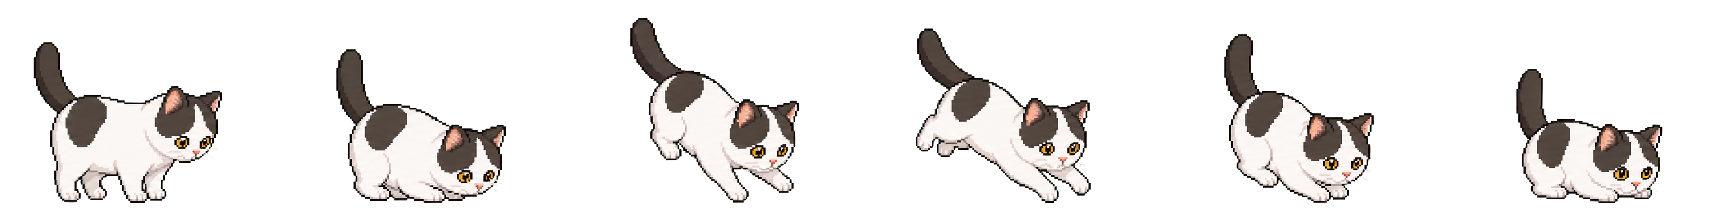
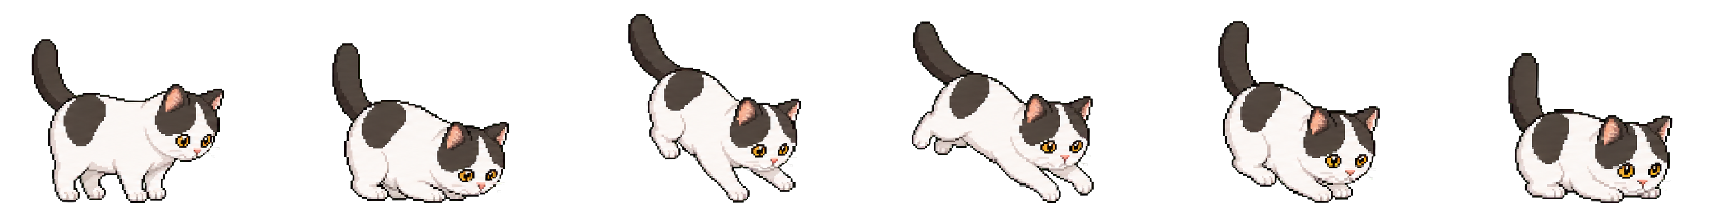
fix: align Xiaomi jump scale and motion

diff --git a/src/app/motion.ts b/src/app/motion.ts
@@ -1,4 +1,4 @@
-import { ACTIONS, LEAP_CROUCH_S, W } from '../render/index.js';
+import { ACTIONS, LEAP_CROUCH_S, W, XIAOMI_POUNCE_MOTION } from '../render/index.js';
 import type { ActionKey, WorldActionKey, Cat, MicroOpts, Pose } from '../render/index.js';
 import { clamp } from '../render/rng.js';
 import { GROUND_FROM_BOTTOM } from './stage.js';
@@ -234,6 +234,11 @@ export interface MotionInput {
    * stretch」。这个边沿由应用层提供；缺省 false，世界层持续投影的动作仍然只播一遍。
    */
   readonly restartAction?: boolean;
+  /**
+   * 扑跳图集的播放倍率。物理位移与画面必须共用它，否则用户调快/调慢动作后，
+   * 会重新出现「已经落地，猫还在往前滑」的错位。缺省 1。
+   */
+  readonly pounceTimeScale?: number;
   /**
    * 猫这一刻该待的屏幕 x（挂件跟前）。null = 没有空间诉求，照旧自己漫游。
    *
@@ -828,6 +833,7 @@ function stepPerch(
  */
 export function stepMotion(state: MotionState, input: MotionInput): MotionState {
   const { dt, now, cat, geom, rnd } = input;
+  const pounceTimeScale = clamp(input.pounceTimeScale ?? 1, 0.01, 10);
 
   if (input.action === null) {
     // 猫已离开。位置不再推进，爪印自然淡完；桌面上从此空着，
@@ -974,8 +980,8 @@ export function stepMotion(state: MotionState, input: MotionInput): MotionState 
       tease = { landingX: input.teaseLandingX, phase: 'approach', t: 0 };
     }
     if (tease !== null) {
-      const leap = ACTIONS.pounce.leap;
-      const leapPx = (leap?.px ?? 0) * geom.spriteScale;
+      const leap = XIAOMI_POUNCE_MOTION;
+      const leapPx = leap.px * geom.spriteScale;
       // 起跳点：落点往回退一个腾空距离。这样扑完刚好落在落点上，
       // 而不是「走到落点再原地跳一下」- 那读起来不是扑。
       const toRight = tease.landingX >= x;
@@ -1026,9 +1032,9 @@ export function stepMotion(state: MotionState, input: MotionInput): MotionState 
       }
 
       if (tease !== null && tease.phase === 'pounce') {
-        const period = ACTIONS.pounce.period ?? 0;
+        const period = leap.periodS;
         const wasT = tease.t;
-        const t = wasT + Math.max(0, dt);
+        const t = wasT + Math.max(0, dt) * pounceTimeScale;
         // 腾空那一段把猫真的送过去。与世界层自己的扑跳走同一套 leap 逻辑 -
         // 位移永远归运动层，动作库只管形体（见 ACTIONS 的 leap 注释）。
         if (leap !== undefined) {
@@ -1162,15 +1168,18 @@ export function stepMotion(state: MotionState, input: MotionInput): MotionState 
   } else if (!def.loop) {
     // 一次性动作：播一遍就完，之后站着等世界层改主意。
     const wasT = !input.restartAction && shot?.action === input.action ? shot.t : null;
-    const t = wasT === null ? 0 : wasT + Math.max(0, dt);
+    const actionDt = input.action === 'pounce' ? dt * pounceTimeScale : dt;
+    const t = wasT === null ? 0 : wasT + Math.max(0, actionDt);
     shot = { action: input.action, t };
-    const done = t >= (def.period ?? 0);
+    const period = input.action === 'pounce' ? XIAOMI_POUNCE_MOTION.periodS : (def.period ?? 0);
+    const done = t >= period;
     playing = done ? 'idle' : input.action;
 
     // 跳跃的位移记在真实位置上，不在姿态的 dx 里 - 见 ACTIONS 的 leap 注释。
     // 只推进落在腾空窗口内的那部分 dt，所以帧率高低不影响跳的距离。
-    if (def.leap !== undefined && wasT !== null) {
-      const { startS, endS, px } = def.leap;
+    const leap = input.action === 'pounce' ? XIAOMI_POUNCE_MOTION : def.leap;
+    if (leap !== undefined && wasT !== null) {
+      const { startS, endS, px } = leap;
       const from = Math.max(wasT, startS);
       const to = Math.min(t, endS);
       if (to > from && endS > startS) {

diff --git a/test/app/motion.test.ts b/test/app/motion.test.ts
@@ -31,10 +31,12 @@ import {
   H,
   LEAP_CROUCH_S,
   W,
+  XIAOMI_POUNCE_MOTION,
   makeCat,
   makeMicro,
   mulberry32,
   stepMicro,
+  xiaomiFrameIndex,
 } from '../../src/render/index.js';
 import type { ActionKey, WorldActionKey, Cat } from '../../src/render/index.js';
 import { step } from '../../src/world/index.js';
@@ -80,6 +82,7 @@ interface RunOpts {
   now?: number;
   /** 随机源种子。 */
   seed?: number;
+  pounceTimeScale?: number;
   /**
    * 挂件锚点的屏幕 x。默认 null = 没有锚点，自由漫游。
    *
@@ -116,6 +119,7 @@ function run(
       dt,
       now,
       action: opts.action === undefined ? 'walk' : opts.action,
+      pounceTimeScale: opts.pounceTimeScale,
       anchorX: anchorOf(state),
       cat,
       geom: g,
@@ -228,8 +232,7 @@ describe('位置随时间推进', () => {
   });
 
   it('扑跳会把猫真的往前送一段，且只在腾空那一段推进', () => {
-    const leap = ACTIONS.pounce.leap;
-    if (leap === undefined) throw new Error('扑跳应当声明 leap');
+    const leap = XIAOMI_POUNCE_MOTION;
     const g = geom();
     const start = createMotion(g, centeredStage(g));
 
@@ -246,11 +249,40 @@ describe('位置随时间推进', () => {
     expect(later.end.x).toBeCloseTo(done.end.x, 6);
   });
 
+  it('扑跳的水平位移只发生在图集腾空格，不能让落地坐姿向前滑', () => {
+    const g = geom();
+    const frames = run(createMotion(g, centeredStage(g)), {
+      frames: 180,
+      action: 'pounce',
+    }).frames;
+    const moving = frames.filter((frame) => frame.moved > 0);
+    expect(moving.length).toBeGreaterThan(0);
+    for (const frame of moving) {
+      expect(xiaomiFrameIndex('pounce', frame.state.shot?.t ?? 0)).toBeGreaterThanOrEqual(2);
+      expect(xiaomiFrameIndex('pounce', frame.state.shot?.t ?? 0)).toBeLessThanOrEqual(4);
+    }
+  });
+
+  it.each([0.55, 1.45])('扑跳调速为 %s 倍时，位移仍只发生在腾空格', (scale) => {
+    const g = geom();
+    const frames = run(createMotion(g, centeredStage(g)), {
+      frames: 240,
+      action: 'pounce',
+      pounceTimeScale: scale,
+    }).frames;
+    const moving = frames.filter((frame) => frame.moved > 0);
+    expect(moving.length).toBeGreaterThan(0);
+    for (const frame of moving) {
+      expect(xiaomiFrameIndex('pounce', frame.state.shot?.t ?? 0)).toBeGreaterThanOrEqual(2);
+      expect(xiaomiFrameIndex('pounce', frame.state.shot?.t ?? 0)).toBeLessThanOrEqual(4);
+    }
+  });
+
   it('一次性动作播一遍就停下来站着，不会一轮接一轮地循环', () => {
     // 用户实测：「跳完固定是蹲下的动作，然后会循环好几轮」。
     // 根因是世界层给一个动作分配十几秒，而扑跳只有 3.4 秒，被当成循环播了四五轮。
     for (const action of WORLD_KEYS.filter((k) => !ACTIONS[k].loop)) {
-      const period = ACTIONS[action].period ?? 0;
+      const period = action === 'pounce' ? XIAOMI_POUNCE_MOTION.periodS : (ACTIONS[action].period ?? 0);
       expect(period, `${action} 没有声明时长`).toBeGreaterThan(0);
       const g = geom();
       const start = createMotion(g, centeredStage(g));

diff --git a/src/render/xiaomi.ts b/src/render/xiaomi.ts
@@ -29,6 +29,17 @@ export const XIAOMI_FRAME_MS = {
   edge: 240,
 } as const satisfies Record<ActionKey, number>;
 
+/**
+ * 扑跳的物理位移窗口必须与完整帧里的腾空格一致。
+ * 第 0 格站定、第 1 格蓄力、第 2–3 格腾空、第 4 格落地、第 5 格坐稳。
+ */
+export const XIAOMI_POUNCE_MOTION = {
+  startS: (XIAOMI_FRAME_MS.pounce * 2) / 1000,
+  endS: (XIAOMI_FRAME_MS.pounce * 4) / 1000,
+  periodS: (XIAOMI_FRAME_MS.pounce * XIAOMI_FRAME_COUNT) / 1000,
+  px: 16,
+} as const;
+
 type XiaomiTimeline = {
   readonly order: readonly [number, number, number, number, number, number];
   readonly durationsMs: readonly [number, number, number, number, number, number];

diff --git a/src/app/main.ts b/src/app/main.ts
@@ -705,6 +705,15 @@ function frame(now: number): void {
     now,
     action: effective,
     restartAction: restartReaction,
+    pounceTimeScale: tuneMotionTime(
+      1,
+      motionTuningFor(
+        world.identity.motion ? { motion: world.identity.motion } : undefined,
+        'pounce',
+      ),
+      'pounce',
+      cat,
+    ),
     hold: holdAt,
     cursorX: cursorScreenX,
     // 安静模式与让开是逗猫棒的**第七道闸门**：不满足就连轨迹判定都不做

diff --git a/src/render/index.ts b/src/render/index.ts
@@ -33,6 +33,7 @@ export {
   XIAOMI_FRAME_H,
   XIAOMI_FRAME_MS,
   XIAOMI_FRAME_W,
+  XIAOMI_POUNCE_MOTION,
   xiaomiActionDurationMs,
   xiaomiFrameIndex,
 } from './xiaomi.js';

diff --git a/public/pets/xiaomi/README.md b/public/pets/xiaomi/README.md
@@ -3,7 +3,7 @@
 - 每个动作是一条 6 格横向、无损 WebP 条带。
 - 单格尺寸为 288×224；运行时整格替换，不进行头、身体、四肢的局部拼接。
 - 原始画面来自已验收的 ImageGen 小米 Demo；这里只做确定性的透明边缘清理、等比缩放、锚点对齐与打包。
-- 15 个动作使用同一缩放比例。除扑跳外，每一格的最低有效像素都对齐逻辑地面线 `y = 50`；跳起、下落和落地的屏幕位移只由运动层负责，避免重复位移。
-- 扑跳的首尾帧落在同一地面线上，中间两格保留帧内腾空弧线，因为这个动作的运动层只负责横向位移。
+- 同一动作允许按帧做克制的比例归一，但缩放锚点固定在脚底与身体中线；除扑跳外，每一格的最低有效像素都对齐逻辑地面线 `y = 50`，不会因放大而漂浮或二次落地。
+- 扑跳的首尾帧落在同一地面线上，中间两格保留帧内腾空弧线；运动层的横向位移严格绑定第 2–3 格的腾空时间窗，并与动作节奏使用同一倍率，避免落地坐姿继续向前滑。
 - 条带中的格子是素材库，不等于固定播放顺序。需要咬合物理事件的动作可在 `src/render/xiaomi.ts` 声明逐格顺序与停留时长；落地在接触帧直接取压缩格，并在 450ms 内完成回弹。
 - 修改资源后运行 `sh tools/check-xiaomi-actions.sh`，校验条带尺寸、脚底锚点和扑跳弧线。
